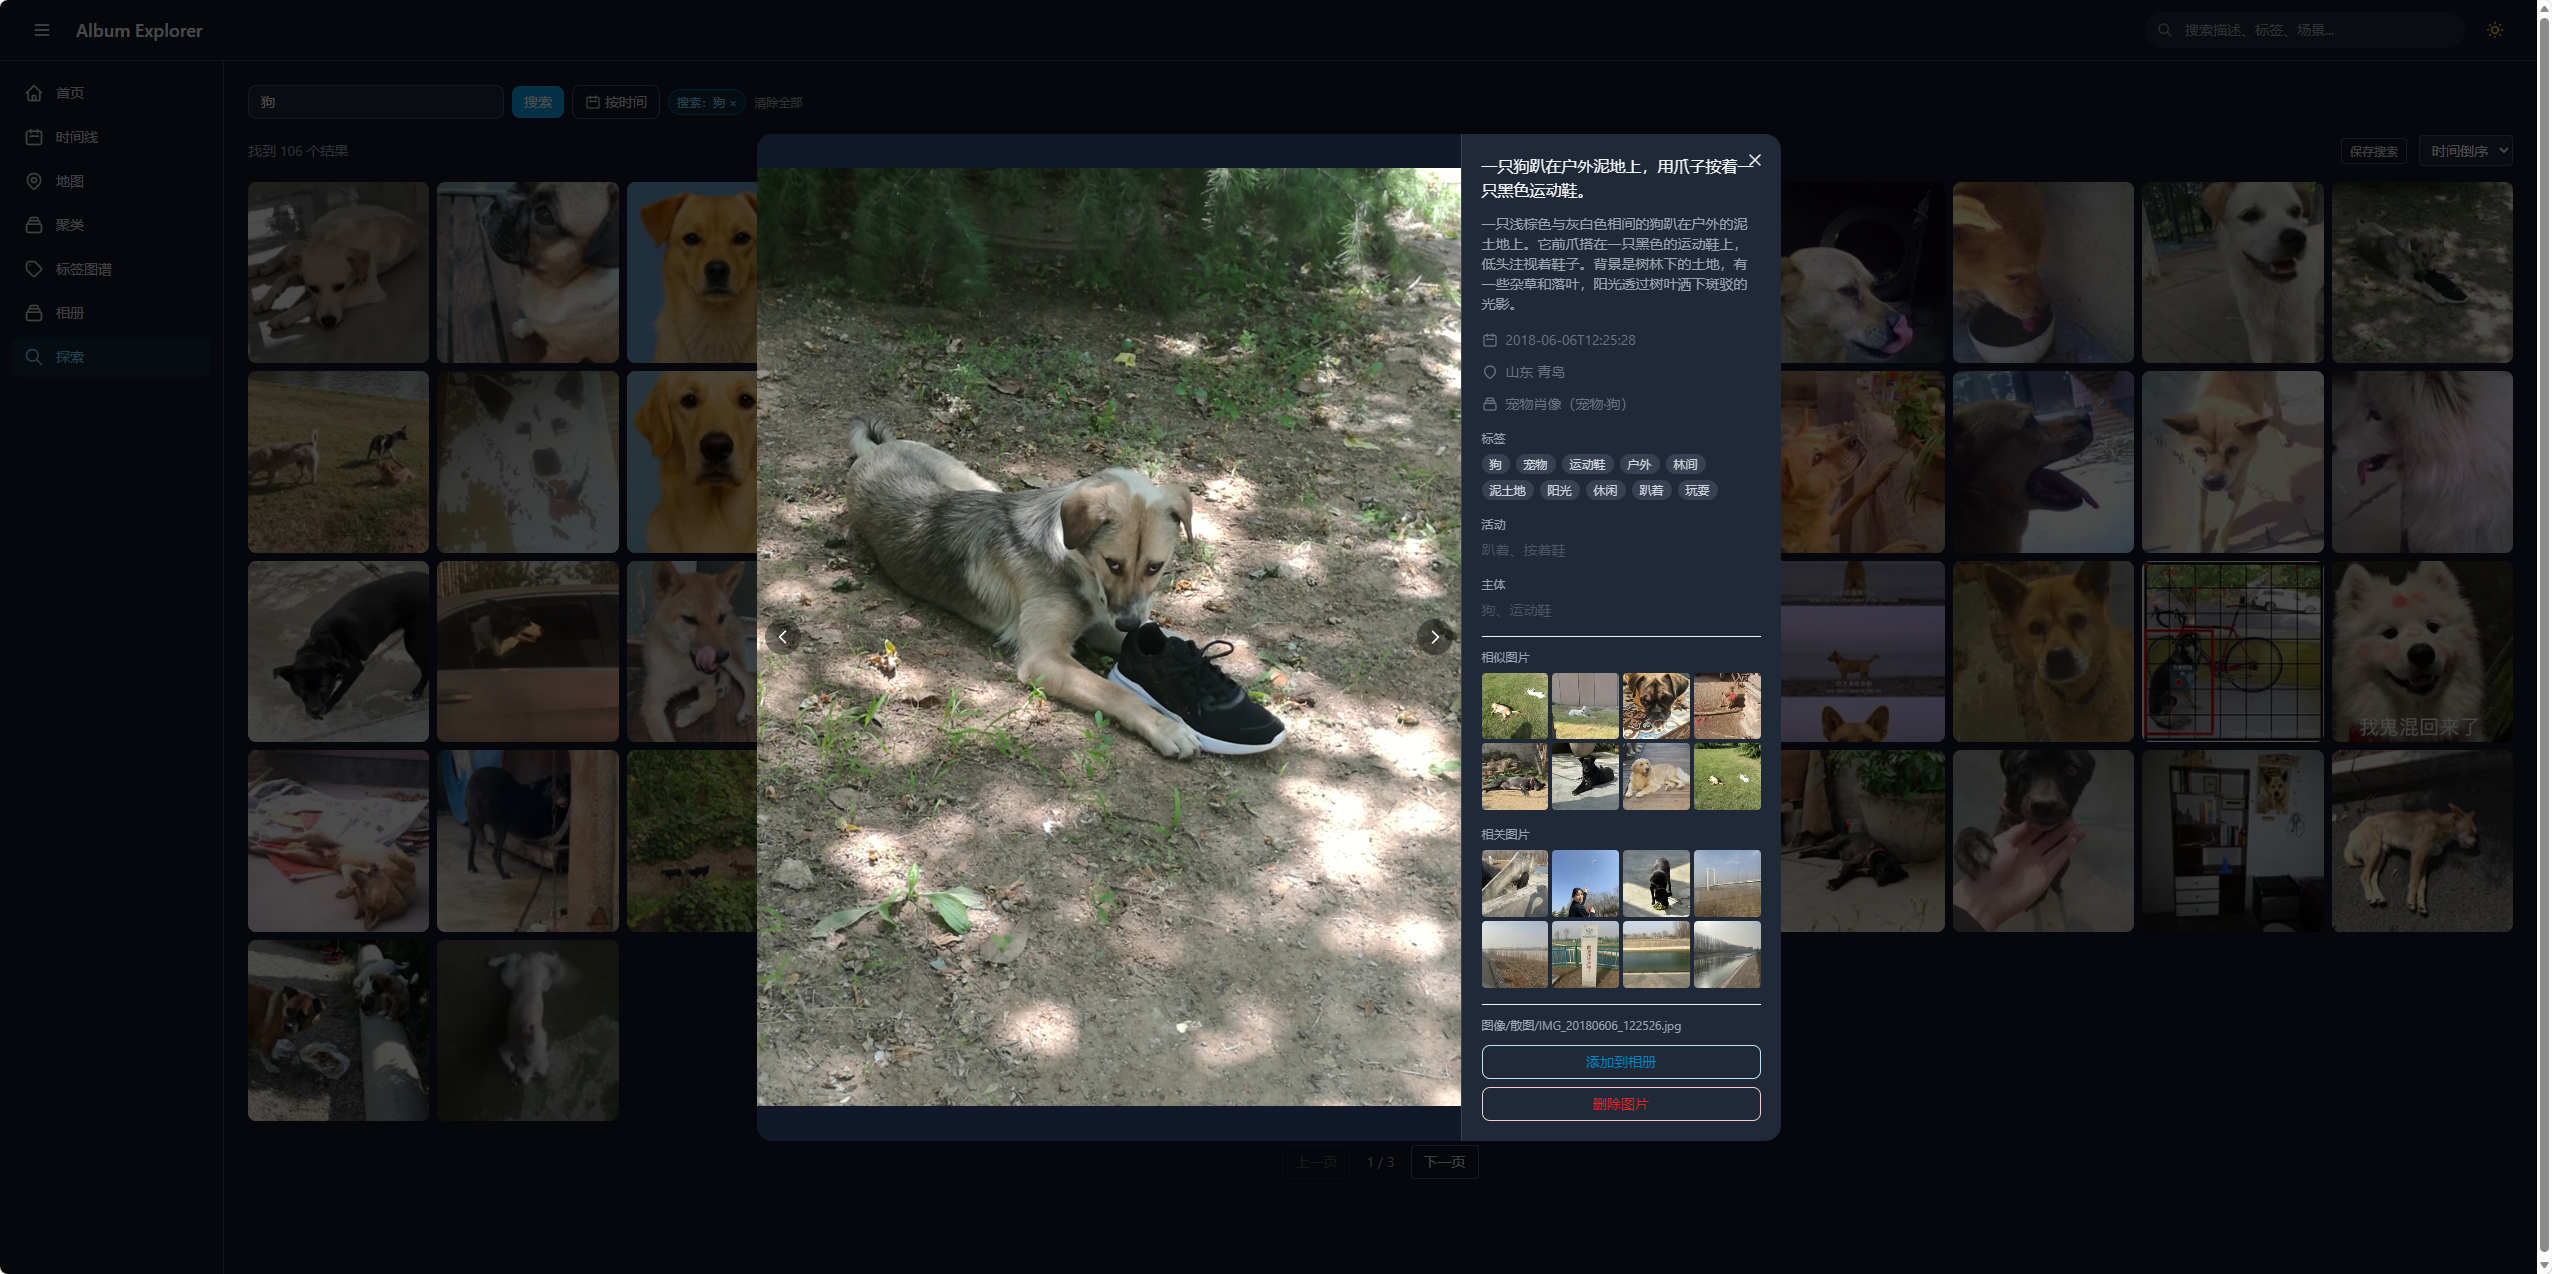
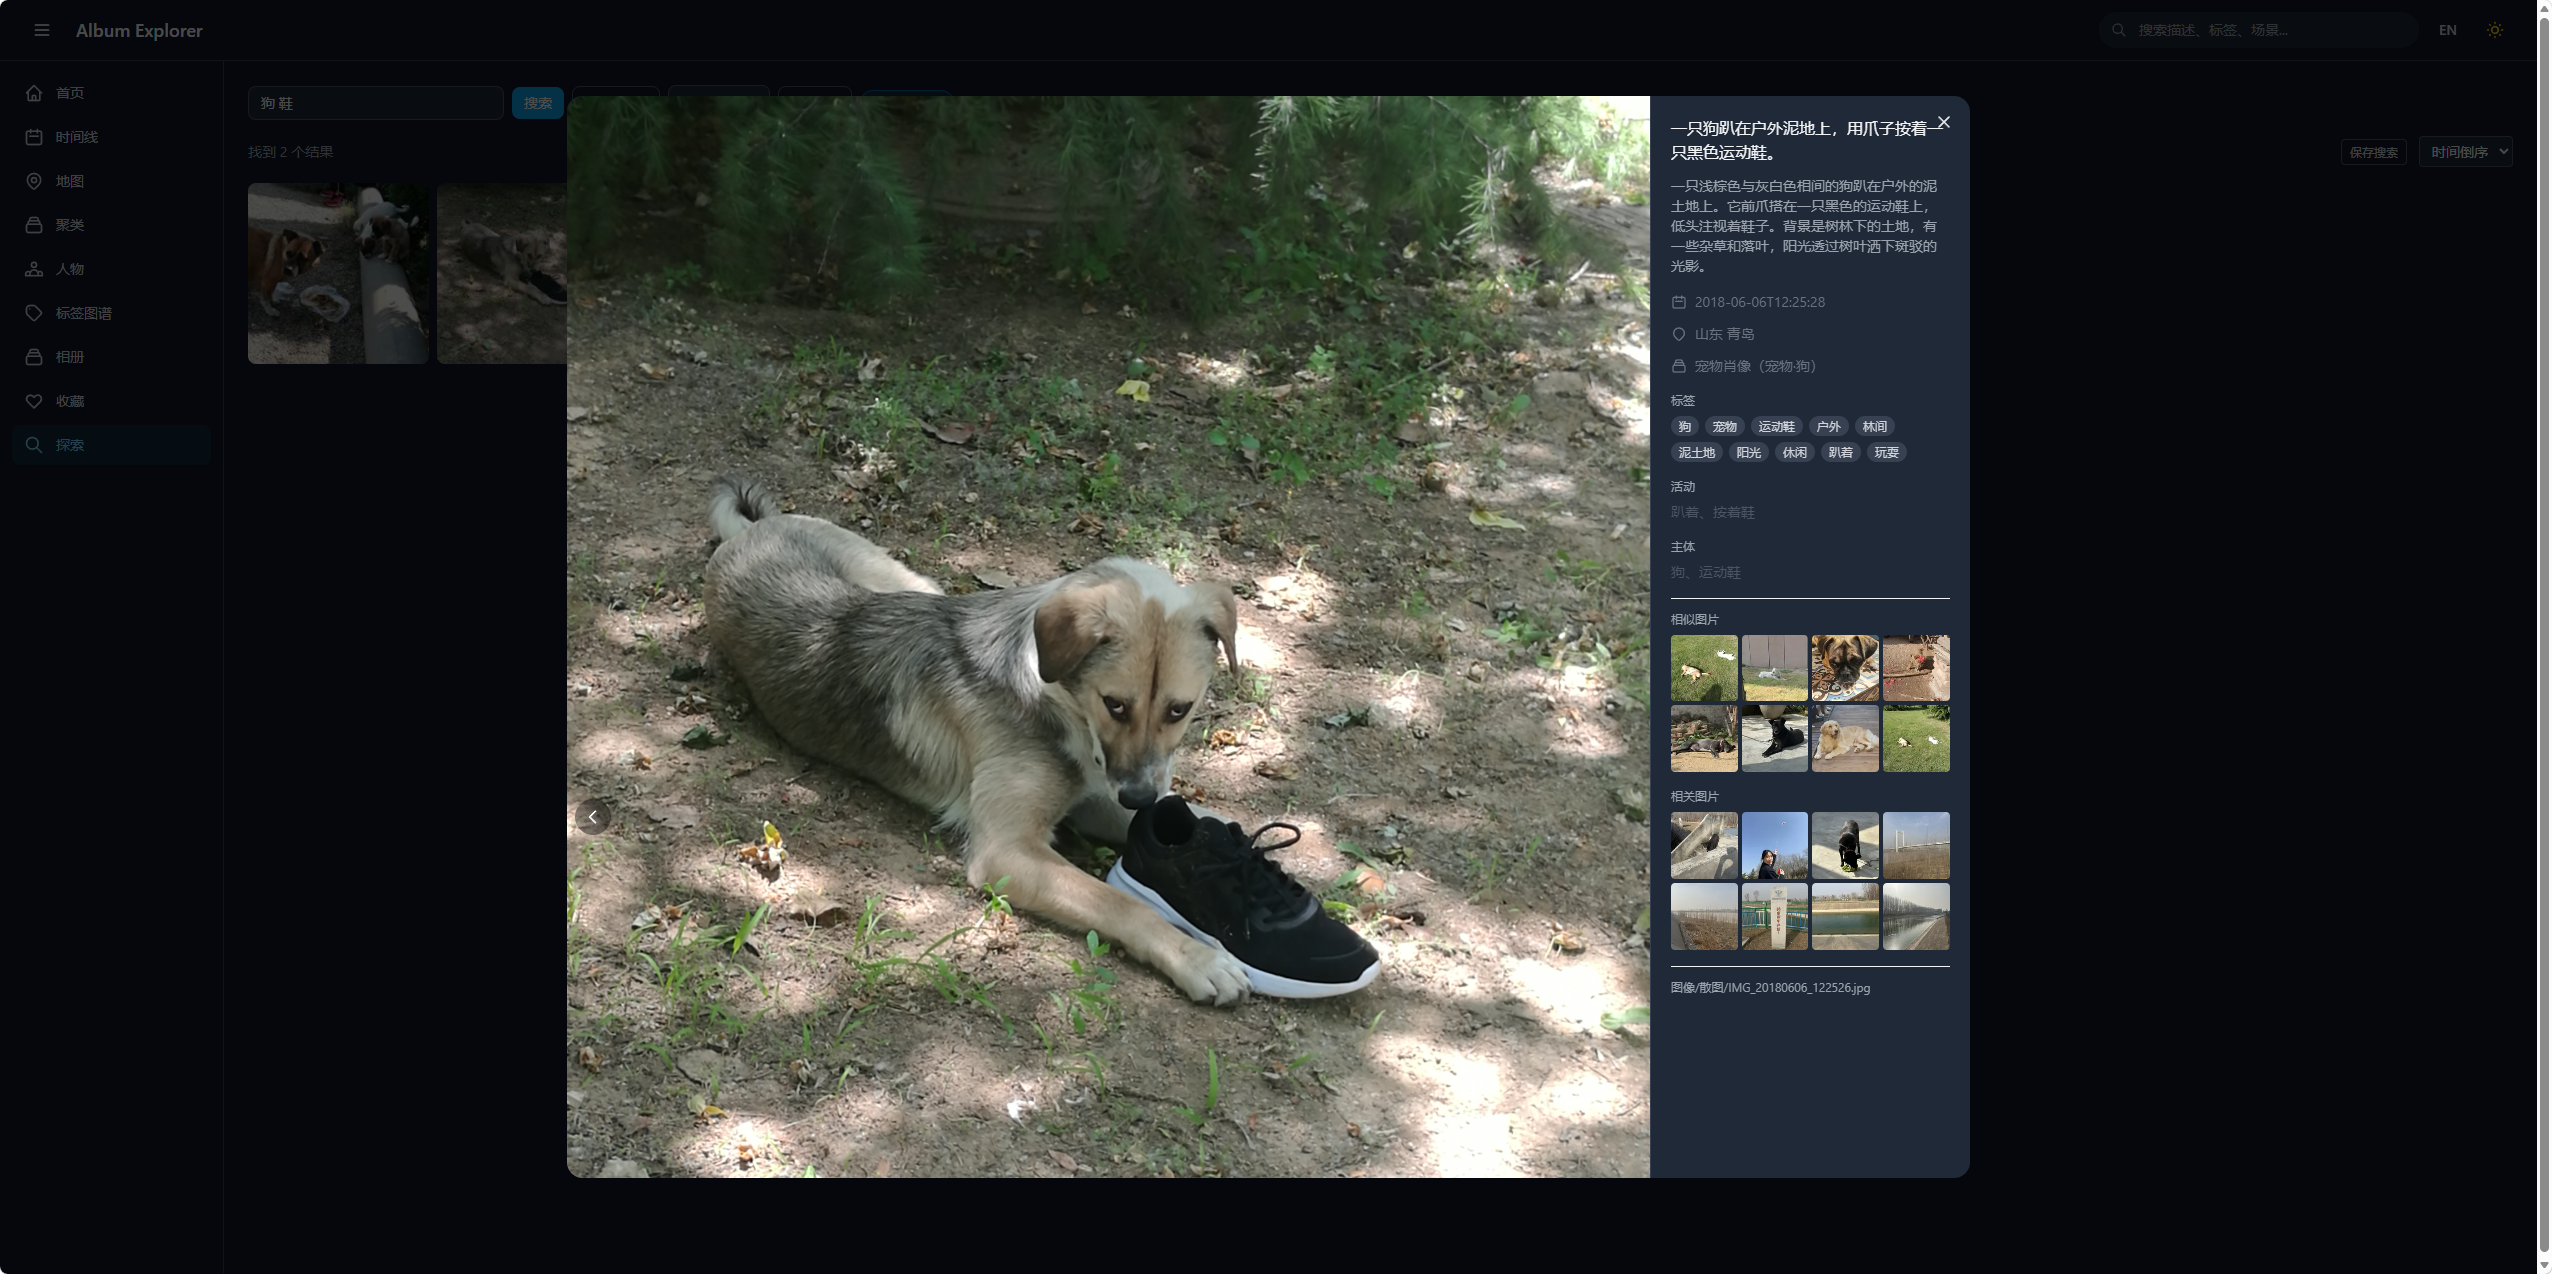
feat: 搜索支持多关键词检索式+子串模糊匹配；时间线删除后隐藏空月份；图片详情弹窗图像区域改为正方形；更新截图

diff --git a/frontend/src/views/TimelinePage.vue b/frontend/src/views/TimelinePage.vue
@@ -163,7 +163,23 @@ function collapseMonth(month: string) {
 
 function onAssetDeleted(assetId: number) {
   for (const month in monthAssets) {
+    const before = monthAssets[month].length
     monthAssets[month] = monthAssets[month].filter(a => a.asset_id !== assetId)
+    if (monthAssets[month].length < before) {
+      updateBucketCount(month, -1)
+    }
+  }
+}
+
+function updateBucketCount(month: string, delta: number) {
+  const bucket = timeline.value.find(b => b.month === month)
+  if (bucket) {
+    bucket.count += delta
+    if (bucket.count <= 0) {
+      timeline.value = timeline.value.filter(b => b.month !== month)
+      delete monthAssets[month]
+      expandedMonths.delete(month)
+    }
   }
 }
 
@@ -198,7 +214,11 @@ async function handleBatchDelete() {
     if (r.status === 'fulfilled') {
       deleted++
       for (const month in monthAssets) {
+        const before = monthAssets[month].length
         monthAssets[month] = monthAssets[month].filter(a => a.asset_id !== ids[i])
+        if (monthAssets[month].length < before) {
+          updateBucketCount(month, -1)
+        }
       }
     }
   })

diff --git a/frontend/src/components/gallery/PhotoDetail.vue b/frontend/src/components/gallery/PhotoDetail.vue
@@ -5,9 +5,9 @@
       class="fixed inset-0 z-[10000] flex items-center justify-center bg-black/70"
       @click.self="ui.closeDetail()"
     >
-      <div class="relative bg-white dark:bg-gray-800 rounded-2xl max-w-5xl w-full mx-4 max-h-[90vh] overflow-hidden flex">
+      <div class="relative bg-white dark:bg-gray-800 rounded-2xl max-w-[calc(85vh+20rem)] w-full mx-4 max-h-[90vh] overflow-hidden flex">
         <!-- 图片区域 -->
-        <div class="flex-1 flex flex-col min-h-[400px]">
+        <div class="flex-1 flex flex-col min-h-[400px] aspect-square">
           <div class="flex-1 bg-gray-900 flex items-center justify-center relative">
             <!-- 左箭头 -->
             <button
@@ -23,7 +23,7 @@
               v-if="detail"
               :src="fullImageUrl(detail.asset_id)"
               :alt="detail.caption_short || ''"
-              class="max-w-full max-h-[70vh] object-contain"
+              class="max-w-full max-h-full object-contain"
             />
             <div v-else class="text-white">{{ $t('detail.loading') }}</div>
             <!-- 右箭头 -->

diff --git a/backend/app/services/query_builder.py b/backend/app/services/query_builder.py
@@ -16,8 +16,6 @@ class QueryBuilder:
     def __init__(self) -> None:
         self.conditions: list[str] = ["a.status = 'done'"]
         self.params: list[Any] = []
-        self.use_fts = False
-        self.fts_query: str | None = None
 
     def filter_cluster(self, cluster_id: int | None) -> "QueryBuilder":
         if cluster_id is not None:
@@ -80,20 +78,19 @@ class QueryBuilder:
             self.params.append(media_type)
         return self
 
+    _SEARCH_COLS = ("a.caption_short", "a.scene", "a.tags_text", "a.city_name")
+
     def filter_text(self, q: str | None) -> "QueryBuilder":
-        if q:
-            self.use_fts = True
-            self.fts_query = q
+        if not q:
+            return self
+        terms = q.split()
+        for term in terms:
+            clause = " OR ".join(f"{col} LIKE ?" for col in self._SEARCH_COLS)
+            self.conditions.append(f"({clause})")
+            self.params.extend([f"%{term}%"] * len(self._SEARCH_COLS))
         return self
 
     def build_count(self) -> tuple[str, list[Any]]:
-        if self.use_fts and self.fts_query:
-            sql = (
-                "SELECT COUNT(*) FROM assets_fts "
-                "JOIN assets a ON a.rowid = assets_fts.rowid "
-                f"WHERE assets_fts MATCH ? AND {' AND '.join(self.conditions)}"
-            )
-            return sql, [self.fts_query] + self.params
         where = " AND ".join(self.conditions)
         return f"SELECT COUNT(*) FROM assets a WHERE {where}", list(self.params)
 
@@ -102,17 +99,6 @@ class QueryBuilder:
         page: int = 1, page_size: int = 50,
     ) -> tuple[str, list[Any]]:
         offset = (page - 1) * page_size
-
-        if self.use_fts and self.fts_query:
-            sql = (
-                f"SELECT {BRIEF_COLS} FROM assets_fts "
-                f"JOIN assets a ON a.rowid = assets_fts.rowid "
-                f"WHERE assets_fts MATCH ? AND {' AND '.join(self.conditions)} "
-                f"ORDER BY rank, a.taken_at DESC "
-                f"LIMIT ? OFFSET ?"
-            )
-            return sql, [self.fts_query] + self.params + [page_size, offset]
-
         where = " AND ".join(self.conditions)
         sql = (
             f"SELECT {BRIEF_COLS} FROM assets a WHERE {where} "

diff --git a/backend/app/routers/timeline.py b/backend/app/routers/timeline.py
@@ -13,6 +13,11 @@ _cache: dict = {"data": None, "ts": 0}
 _CACHE_TTL = 300
 
 
+def invalidate_cache():
+    _cache["data"] = None
+    _cache["ts"] = 0
+
+
 @router.get("")
 async def get_timeline() -> list[TimelineBucket]:
     now = time.time()

diff --git a/backend/app/routers/assets.py b/backend/app/routers/assets.py
@@ -247,4 +247,8 @@ async def delete_asset(asset_id: int, confirm: bool = Query(False)):
     await db.execute("DELETE FROM asset_neighbors WHERE asset_id = ? OR neighbor_id = ?", [asset_id, asset_id])
 
     await db.commit()
+
+    from app.routers.timeline import invalidate_cache as invalidate_timeline_cache
+    invalidate_timeline_cache()
+
     return {"status": "deleted", "asset_id": asset_id}

diff --git a/README.md b/README.md
@@ -62,7 +62,7 @@ album-assetizer 生成结构化数据 → album-explorer 可视化浏览
 | **类型分类** | 自动识别截图、长图、动图，分类浏览 |
 | **标签图谱** | D3 力导向图展示标签共现关系，节点按连接度着色 |
 | **统一探索页** | 文本搜索 + 多维筛选 + 日历选择器，自适应铺满屏幕 |
-| **全文搜索** | FTS5 覆盖描述、场景、标签、城市名 |
+| **全文搜索** | 空格分隔多关键词检索（AND 语义）+ 子串模糊匹配，覆盖描述、场景、标签、城市名 |
 | **手动相册** | 创建/删除相册，添加/移出图片，批量操作 |
 | **相似推荐** | 基于预计算 Top-K 邻居的即时相似推荐 + 当日图像 |
 | **多语言** | 中英文界面一键切换，偏好自动记忆 |

diff --git a/README_en.md b/README_en.md
@@ -62,7 +62,7 @@ album-assetizer generates structured data → album-explorer visualizes it
 | **Media Types** | Auto-classify screenshots, long images, animated images with filtered browsing |
 | **Tag Graph** | D3 force-directed graph showing tag co-occurrence, nodes colored by connectivity |
 | **Explore Page** | Full-text search + multi-dimensional filters + calendar picker, adaptive grid |
-| **Full-Text Search** | FTS5 covering descriptions, scenes, tags, city names |
+| **Full-Text Search** | Space-separated multi-keyword queries (AND semantics) + substring fuzzy matching across descriptions, scenes, tags, city names |
 | **Manual Albums** | Create/delete albums, add/remove photos, batch operations |
 | **Similarity** | Pre-computed Top-K neighbors for instant recommendations + same-day photos |
 | **i18n** | Chinese/English UI toggle with persistent preference |